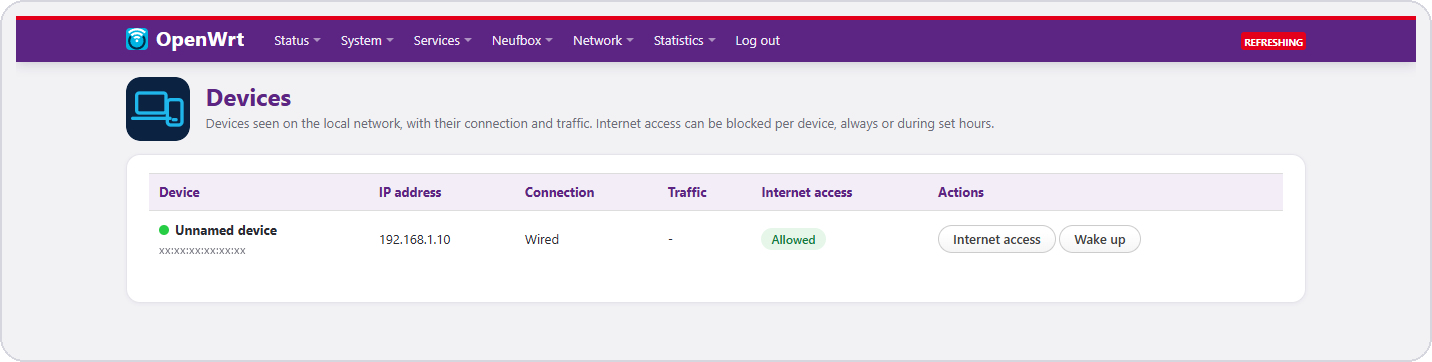
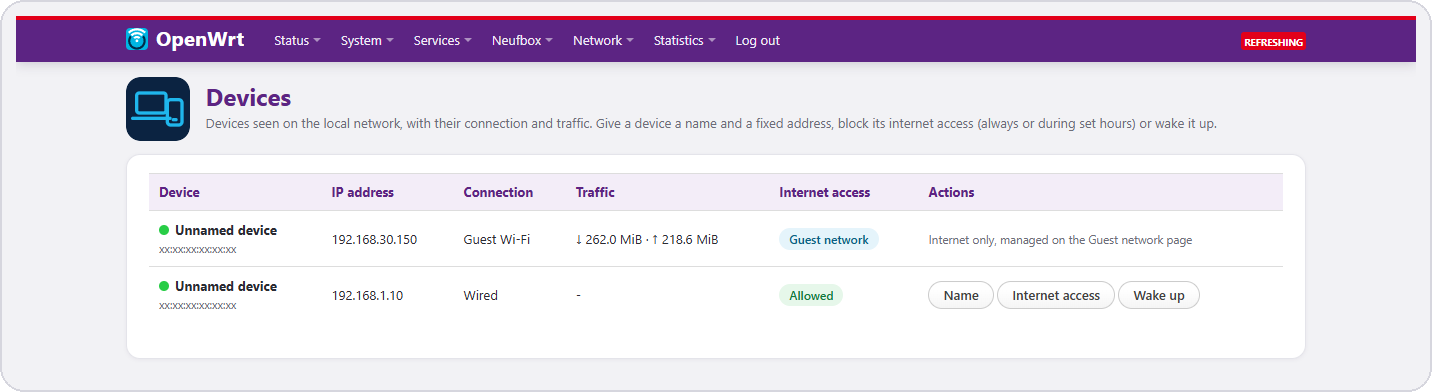
2.4: docs, screenshots, guest and backup page layout

diff --git a/files/www/luci-static/resources/view/nb6/guest.js b/files/www/luci-static/resources/view/nb6/guest.js
@@ -28,7 +28,6 @@ const STYLE = `
 .nb6-qr { text-align:center; border:1px solid #e4e4ea; border-radius:14px; padding:14px; background:#fff; }
 .nb6-qr small { color:#6d6d78; }
 .nb6-guest .cbi-value { margin:.8em 0; }
-.nb6-guest label.nb6-l { display:block; font-weight:600; margin-bottom:.3em; }
 @media (max-width: 800px) { .nb6-guest { grid-template-columns: 1fr; } }
 `;
 
@@ -66,13 +65,13 @@ return view.extend({
 					]),
 					secured ? E([], [
 						E('div', { 'class': 'cbi-value' }, E('label', {}, [on, ' ', _('Guest network on')])),
-						E('div', { 'class': 'cbi-value' }, [
-							E('label', { 'class': 'nb6-l' }, _('Guest password')),
+						E('div', { 'style': 'margin:.8em 0' }, [
+							E('div', { 'style': 'font-weight:600;margin-bottom:.3em' }, _('Guest password')),
 							key, ' ',
 							E('button', { 'class': 'btn cbi-button', 'click': () => { key.value = randomKey(); } }, _('New password')),
 							E('div', { 'class': 'cbi-value-description' }, _('8 to 63 characters, different from the main Wi-Fi password. Change it to cut off the current guests.'))
 						]),
-						E('div', { 'class': 'cbi-value' }, [
+						E('div', { 'style': 'margin:.8em 0' }, [
 							E('label', {}, [port4, ' ', _('Ethernet port 4 also goes to the guest network')]),
 							E('div', { 'class': 'cbi-value-description' }, _('For a wired guest, a TV or a games console. A computer plugged into port 4 then no longer reaches the home network.'))
 						]),

diff --git a/files/www/luci-static/resources/view/nb6/backup.js b/files/www/luci-static/resources/view/nb6/backup.js
@@ -71,7 +71,7 @@ return view.extend({
 				E('div', { 'class': 'cbi-section' }, [
 					E('h3', {}, _('Full flash copy')),
 					E('p', {}, _('The whole 16 MB chip, byte for byte: bootloader, firmware and nvram, which holds the MAC address and radio calibration of this box. With it, the box can be brought back to this exact state through the serial console.')),
-					E('p', {}, _('Takes about a minute. Keep the file somewhere safe, it is the only copy of this box\'s nvram.')),
+					E('p', {}, _('Takes under a minute on the local network. Keep the file somewhere safe, it is the only copy of this box\'s nvram.')),
 					E('button', {
 						'class': 'btn cbi-button-action', 'disabled': total == 16777216 ? null : '',
 						'click': () => download('flash')

diff --git a/docs/EXTRAS.md b/docs/EXTRAS.md
@@ -17,6 +17,10 @@ All of them are in the image; the ones that change the box's behaviour are off u
 | Devices, internet blocking and schedules | `nb6/devices` page, firewall rules | on | LuCI > Neufbox > Devices |
 | Ad blocking | `adblock-fast`, Peter Lowe's list | off | LuCI > Neufbox > Ad blocking |
 | One-click updates | `nb6-update` | on (checks every 6 h) | LuCI > Status > Home, Software card |
+| Wi-Fi card and QR code | `nb6/home` page, `nb6/qr.js` | on | LuCI > Status > Home, Wi-Fi card |
+| Guest network | `nb6-guest`, hostapd multi-PSK | off | LuCI > Neufbox > Guest network |
+| Names and fixed addresses | DHCP hosts `nb6_host_<mac>` | on | LuCI > Neufbox > Devices |
+| Settings and full flash backup | `/cgi-bin/nb6-backup` | on | LuCI > Neufbox > Backup |
 
 ## zram swap
 Part of the RAM is used as a compressed swap device (lzo), so the 54 MB that Linux sees behave like
@@ -70,10 +74,16 @@ root login, like SSH.
 LuCI > Neufbox > Devices lists the devices seen on the LAN (DHCP leases, neighbour table, Wi-Fi
 stations) with their address, connection (wired, or Wi-Fi with signal) and traffic (nlbwmon).
 Per device:
+- **Name**: a name, and optionally an address that is always the same (a DHCP host named
+  `nb6_host_<mac>`). The name also resolves on the local network. The device gets the address at its
+  next connection.
 - **Internet access**: allowed, blocked, or blocked during set hours on chosen days (parental control).
   It is a firewall rule named `nb6_block_<mac>` (`src_mac`, `start_time`, `stop_time`, `weekdays`);
   the device keeps its access to the local network.
 - **Wake up**: sends a Wake-on-LAN packet.
+
+Guest devices are listed too, marked *Guest network*, without these actions.
+The b43 driver sometimes reports impossible signal values (such as -4 dBm); they are not shown.
 
 ## Ad blocking
 LuCI > Neufbox > Ad blocking turns `adblock-fast` on or off. It answers the ad servers of
@@ -95,3 +105,41 @@ runs `nb6-update install`, which:
 Nothing is written if any step fails; the services come back and the error is shown. The box restarts
 on its own and the page reconnects when it is back (about 10 minutes for the first boot).
 From the command line: `nb6-update check`, `nb6-update install`, `nb6-update status`.
+
+## Wi-Fi card and QR code
+The **Wi-Fi** card of the Home page shows the network name, the password (hidden until *show*), the
+connected devices and the channel. *QR code* shows a code that phone cameras (Android and iOS) read to join
+without typing the password. It is generated in the browser by `nb6/qr.js` (byte mode, level M), so the
+password goes to no other program. *Edit* changes the name, the password, or turns the Wi-Fi off; the Wi-Fi
+restarts for a few seconds.
+
+## Guest network
+LuCI > Neufbox > Guest network gives visitors internet access, kept apart from your devices.
+
+The b43 chip has a single access point, so there is no second Wi-Fi name. Instead, guests join the **same
+Wi-Fi name with their own password** (hostapd multi-PSK: a `wifi-station` with its own key and VLAN 3, and a
+`wifi-vlan` bridged into `br-guest`). The page creates a random password and shows a QR code for guests.
+
+| | Home network | Guest network |
+|---|---|---|
+| Addresses | 192.168.1.0/24 | 192.168.30.0/24 (DHCP, 2 h leases) |
+| Internet | yes | yes (and through the commercial VPN when it is on) |
+| Home devices, tailnet | yes | no |
+| Box settings (LuCI, SSH) | yes | no (only DHCP and DNS) |
+
+*Ethernet port 4 also goes to the guest network* moves that port into VLAN 3 (switch VLAN 1 keeps ports 1-3).
+A computer plugged into port 4 then no longer reaches the home network.
+Turning the guest network off keeps its password for next time. From the command line:
+`nb6-guest on <password> [port4]`, `nb6-guest off`, `nb6-guest status`.
+
+## Backup
+LuCI > Neufbox > Backup offers two downloads, streamed by `/cgi-bin/nb6-backup` (which checks the LuCI
+session; nothing is copied to RAM first):
+- **Settings**: the same archive as `sysupgrade -b`, to restore in System > Backup / Flash Firmware. It
+  contains the Wi-Fi passwords and the VPN private keys.
+- **Full flash copy**: the whole 16 MB chip, `cfe` + `firmware` + `nvram` in flash order (about 12 s on the
+  LAN). The nvram holds the MAC address and radio calibration of this box, so keep this file: with it the box
+  can be brought back to this exact state through the serial console ([FLASHING.md](FLASHING.md)).
+
+The page lists the flash partitions with the SHA-256 of `cfe` and `nvram`: the first and last 64 KB of a
+flash copy must match them.

diff --git a/README.md b/README.md
@@ -36,6 +36,8 @@ goes further than the official port ever did:
 | Sensors (temperature, voltage) | ❌ | ✅ with graphs in LuCI |
 | Compressed swap (zram), watchdog | ❌ | ✅ |
 | Wi-Fi schedule, LED night mode | ❌ | ✅ |
+| Guest network, Wi-Fi QR code | ❌ | ✅ |
+| One-click updates, full flash backup from the web | ❌ | ✅ |
 | Gigabit switch, USB, WAN "Fibre" port | ✅ | ✅ |
 
 ## Hardware
@@ -72,15 +74,20 @@ provider (Mullvad, Proton VPN, NordVPN, ...). → **[docs/VPN.md](docs/VPN.md)**
 ## Web interface
 
 LuCI uses its own **Neufbox** theme (white pages, purple menus, red actions, always light). After login, the
-**Home** page shows the connection, the box, the VPN and the connected devices, with a photo of the box and the
-current state of its ring LEDs. The **Neufbox** menu shows both tunnels, imports a provider's WireGuard file,
-and sets the LEDs and eco mode. The standard bootstrap theme and overview stay available.
+**Home** page shows the connection, the Wi-Fi (with a QR code to join), the box, the VPN and the connected devices,
+with a photo of the box and the current state of its ring LEDs. The **Neufbox** menu lists the devices (names, fixed addresses, internet
+blocking), runs the guest network and ad blocking, shows both VPN tunnels, sets the LEDs and eco mode, and makes backups. The standard bootstrap theme and overview stay available.
 
 <p align="center"><img src="assets/luci-home.png" alt="LuCI home page with the Neufbox theme" width="100%"></p>
 
 <p align="center">
   <img src="assets/luci-devices.png" alt="LuCI: Neufbox > Devices" width="49%">
   <img src="assets/luci-adblock.png" alt="LuCI: Neufbox > Ad blocking" width="49%">
+</p>
+
+<p align="center">
+  <img src="assets/luci-guest.png" alt="LuCI: Neufbox > Guest network, with a QR code for guests" width="49%">
+  <img src="assets/luci-backup.png" alt="LuCI: Neufbox > Backup, settings and full flash copy" width="49%">
 </p>
 
 <p align="center"><img src="assets/luci-login.png" alt="LuCI login page with the Neufbox theme" width="46%"></p>
@@ -102,7 +109,8 @@ recovered from the SFR firmware. 2.4 GHz access point, WPA2, 802.11g rates, 0 % 
 More out of 64 MB of RAM: **zram** compressed swap, hardware **watchdog**, **graphs** of temperature, 12 V,
 CPU, RAM and traffic, **per-device traffic** (nlbwmon), **Wi-Fi schedule**, LED **brightness and night mode**,
 **Wake-on-LAN** and a **web terminal** in LuCI, a **devices** page with per-device internet blocking and schedules,
-**ad blocking** for the whole network, and **one-click updates** from GitHub. → **[docs/EXTRAS.md](docs/EXTRAS.md)**
+**ad blocking** for the whole network, **one-click updates** from GitHub, a **guest network** with its own
+Wi-Fi password, a **Wi-Fi QR code**, **names and fixed addresses** for devices, and a **full flash backup** in one click. → **[docs/EXTRAS.md](docs/EXTRAS.md)**
 
 ## Getting started
 
@@ -144,7 +152,7 @@ The image therefore ships a small **lzma-loader** that CFE unpacks first, which 
 | [docs/WIFI.md](docs/WIFI.md) | integrated Wi-Fi: driver, firmware, calibration |
 | [docs/LEDS-BUTTONS.md](docs/LEDS-BUTTONS.md) | LEDs, buttons, sensors |
 | [docs/VPN.md](docs/VPN.md) | tailnet and commercial VPN on the SFR button |
-| [docs/EXTRAS.md](docs/EXTRAS.md) | zram, watchdog, statistics, Wi-Fi schedule, night mode, Wake-on-LAN, terminal |
+| [docs/EXTRAS.md](docs/EXTRAS.md) | devices, guest network, Wi-Fi QR code, backup, ad blocking, updates, zram, statistics, night mode |
 | [docs/PORTING.md](docs/PORTING.md) | how the port was done, bring-up problems, test results |
 | [CHANGELOG.md](CHANGELOG.md) | changes per version |
 
